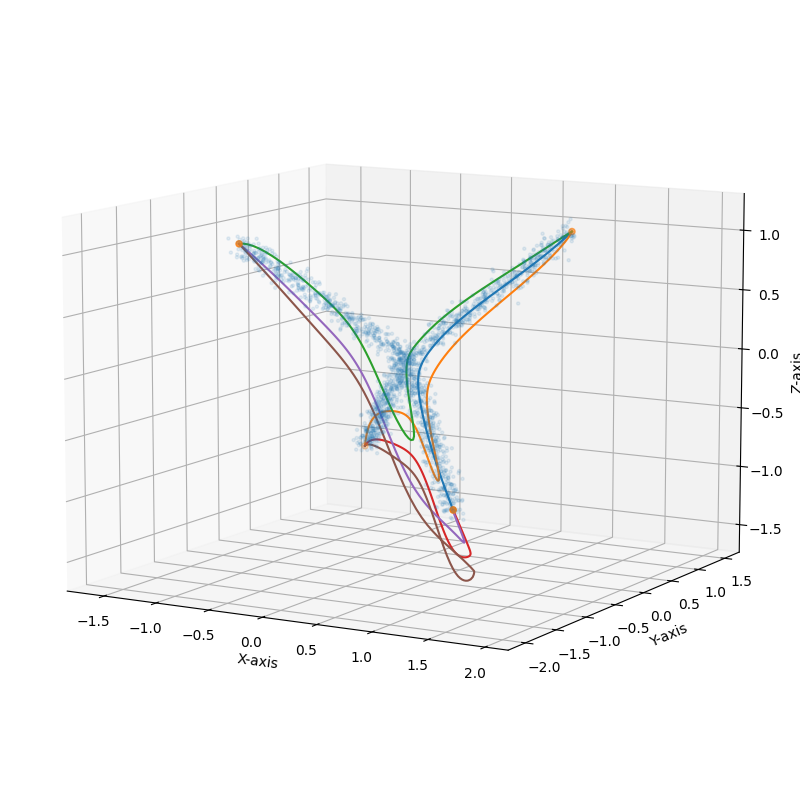
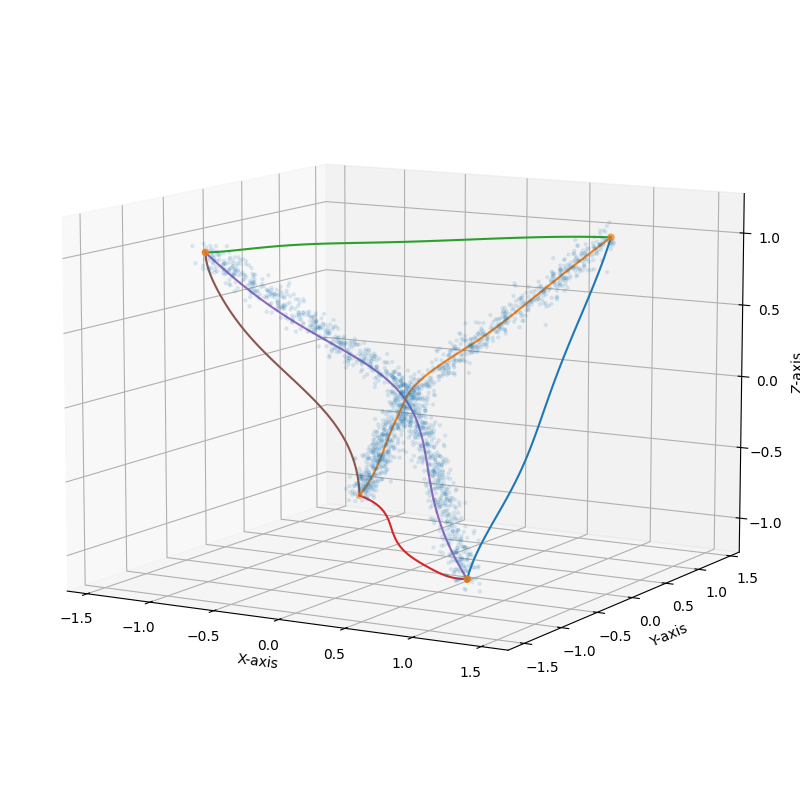
minor changes

diff --git a/src/diffeomorphisms/vector/product.py b/src/diffeomorphisms/vector/product.py
@@ -1,0 +1,71 @@
+import torch
+
+from src.diffeomorphisms.vector import VectorDiffeomorphism
+
+class ProductVectorDiffeomorphism(VectorDiffeomorphism):
+    def __init__(self, diffeomorphisms):
+        super().__init__(sum(d.d for d in diffeomorphisms))
+
+        self.diffeomorphisms = diffeomorphisms
+
+    def forward(self, x):
+        """
+        Apply the product diffeomorphism to x.
+        
+        :param x: N x d
+        :return: N x d
+        """
+        outputs = []
+        start = 0
+        for diffeo in self.diffeomorphisms:
+            end = start + diffeo.d
+            outputs.append(diffeo.forward(x[:, start:end]))
+            start = end
+        return torch.cat(outputs, dim=-1)
+    
+    def inverse(self, y):
+        """
+        Apply the inverse of the product diffeomorphism to y.
+        
+        :param y: N x d
+        :return: N x d
+        """
+        outputs = []
+        start = 0
+        for diffeo in self.diffeomorphisms:
+            end = start + diffeo.d
+            outputs.append(diffeo.inverse(y[:, start:end]))
+            start = end
+        return torch.cat(outputs, dim=-1)
+    
+    def differential_forward(self, x, X):
+        """
+        Apply the differential of the product diffeomorphism to x and X.
+        
+        :param x: N x d
+        :param X: N x d
+        :return: N x d
+        """
+        outputs = []
+        start = 0
+        for diffeo in self.diffeomorphisms:
+            end = start + diffeo.d
+            outputs.append(diffeo.differential_forward(x[:, start:end], X[:, start:end]))
+            start = end
+        return torch.cat(outputs, dim=-1)
+    
+    def differential_inverse(self, y, Y):
+        """
+        Apply the differential of the inverse of the product diffeomorphism to y and Y.
+        
+        :param y: N x d
+        :param Y: N x d
+        :return: N x d
+        """
+        outputs = []
+        start = 0
+        for diffeo in self.diffeomorphisms:
+            end = start + diffeo.d
+            outputs.append(diffeo.differential_inverse(y[:, start:end], Y[:, start:end]))
+            start = end
+        return torch.cat(outputs, dim=-1)

diff --git a/src/distributions/product.py b/src/distributions/product.py
@@ -1,0 +1,32 @@
+import torch
+from torch import nn
+from nflows.distributions import Distribution
+
+class ProductDistribution(Distribution):
+    def __init__(self, distributions):
+        super().__init__()
+        # Register as modules so their parameters are seen by .parameters()
+        self.distributions = nn.ModuleList(distributions)
+        self.d = sum(dist.d for dist in self.distributions)  # total dimension is sum of component dimensions
+
+    def log_prob(self, x, context=None):
+        dims = [d.d for d in self.distributions]
+        cum = [0]
+        for d in dims:
+            cum.append(cum[-1] + d)
+
+        log_probs = [
+            dist.log_prob(x[:, cum[j]:cum[j+1]], context=context)
+            for j, dist in enumerate(self.distributions)
+        ]
+        return sum(log_probs)
+
+
+    def sample(self, num_samples, context=None):
+        # each component samples over *all* features here;
+        # adapt if you want a split over dimensions instead
+        samples = [
+            dist.sample(num_samples, context=context) 
+            for dist in self.distributions
+        ]
+        return torch.cat(samples, dim=-1)

diff --git a/src/training/star_gaussian.py b/src/training/star_gaussian.py
@@ -1,0 +1,29 @@
+import torch
+
+from src.diffeomorphisms.vector.star_gaussian import StarGaussianVectorDiffeomorphism
+
+class StarGaussianTraining(torch.nn.Module):
+    def __init__(self, diffeo, star_gaussian, lr=1e-3):
+        super(StarGaussianTraining, self).__init__()
+        assert diffeo.d == star_gaussian.d, "Diffeomorphism and Star Gaussian must have the same dimension"
+        self.phi = diffeo
+        self.star = star_gaussian
+        
+        self.optimizer = torch.optim.Adam(self.star.parameters(), lr=lr)
+
+    @property
+    def psi(self):
+        return StarGaussianVectorDiffeomorphism(self.phi.d, self.star)
+
+    def loss(self, x):
+        phi_x = self.phi.forward(x).reshape(x.shape[0], -1)  # N x d
+        log_prob = self.star.log_prob(phi_x)  # N
+        neg_log_prob_loss = -log_prob.mean()
+        return neg_log_prob_loss
+    
+    def train_step(self, x):
+        self.optimizer.zero_grad()
+        loss = self.loss(x)
+        loss.backward()
+        self.optimizer.step()
+        return loss.item()

diff --git a/src/diffeomorphisms/identity.py b/src/diffeomorphisms/identity.py
@@ -1,0 +1,17 @@
+from src.diffeomorphisms import Diffeomorphism
+
+class IdentityDiffeomorphism(Diffeomorphism):
+    def __init__(self, d):
+        super().__init__(d)
+
+    def forward(self, x):
+        return x
+
+    def inverse(self, y):
+        return y
+
+    def differential_forward(self, x, X):
+        return X
+    
+    def differential_inverse(self, y, Y):
+        return Y

diff --git a/src/distributions/diagonal_gaussian.py b/src/distributions/diagonal_gaussian.py
@@ -1,0 +1,15 @@
+import torch
+
+from nflows.distributions import Distribution
+
+class DiagonalGaussian(Distribution):
+    def __init__(self, d, sigma=1.0):
+        super().__init__()
+        self.d = d
+        self.register_buffer("sigma", torch.as_tensor(sigma))
+
+    def log_prob(self, inputs, context=None):
+        return -0.5 * ((inputs / self.sigma) ** 2).norm(dim=-1) + self.d/2 * torch.log(2 * torch.pi * self.sigma ** 2)
+    
+    def sample(self, num_samples, context=None):
+        return self.sigma * torch.randn(num_samples, self.d)

diff --git a/src/training/latent_star_gaussian.py b/src/training/latent_star_gaussian.py
@@ -1,12 +1,14 @@
 import torch
 
 from src.diffeomorphisms.vector.star_gaussian import StarGaussianVectorDiffeomorphism
+from src.diffeomorphisms.vector.product import ProductVectorDiffeomorphism
+from src.diffeomorphisms.identity import IdentityDiffeomorphism
 
 class LatentStarGaussianTraining(torch.nn.Module):
-    def __init__(self, diffeo, star_gaussian, lr=1e-3):
+    def __init__(self, diffeo, product_distribution, lr=1e-3):
         super(LatentStarGaussianTraining, self).__init__()
         self.phi = diffeo
-        self.star = star_gaussian
+        self.star = product_distribution
         
         self.optimizer = torch.optim.Adam(self.star.parameters(), lr=lr)
 
@@ -15,7 +17,7 @@ class LatentStarGaussianTraining(torch.nn.Module):
         if self.phi.d == self.star.d:
             return StarGaussianVectorDiffeomorphism(self.phi.d, self.star)
         else:
-            raise ValueError("Diffeomorphic decoder dimension must match star gaussian dimension to construct psi.")
+            return ProductVectorDiffeomorphism([StarGaussianVectorDiffeomorphism(self.star.d, self.star), IdentityDiffeomorphism(self.phi.d - self.star.d)])    
 
     def loss(self, x):
         phi_x = self.phi.forward(x).reshape(x.shape[0], -1)  # N x d

diff --git a/src/distributions/starflow.py b/src/distributions/starflow.py
@@ -1,5 +1,6 @@
 from nflows import flows
 
-class StarFlow(flows.Flow):
+class StarFlowDistribution(flows.Flow):
     def __init__(self, transform, star_gaussian_distribution):
-        super(StarFlow, self).__init__(transform, star_gaussian_distribution)
+        super(StarFlowDistribution, self).__init__(transform, star_gaussian_distribution)
+        self.d = star_gaussian_distribution.radial.d